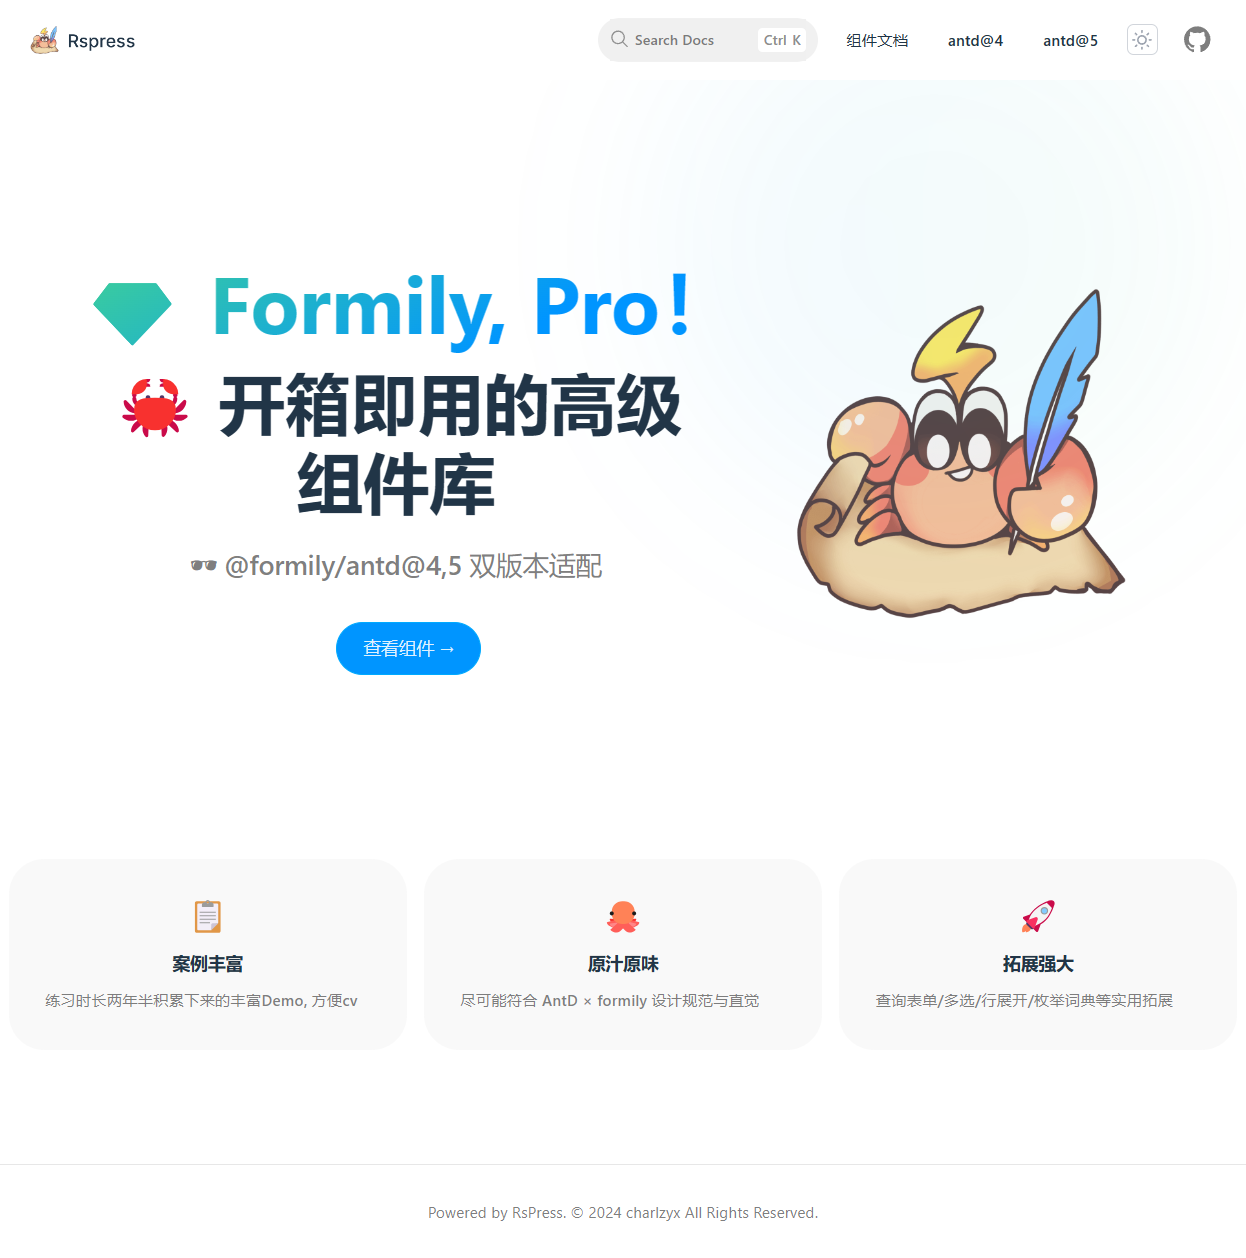
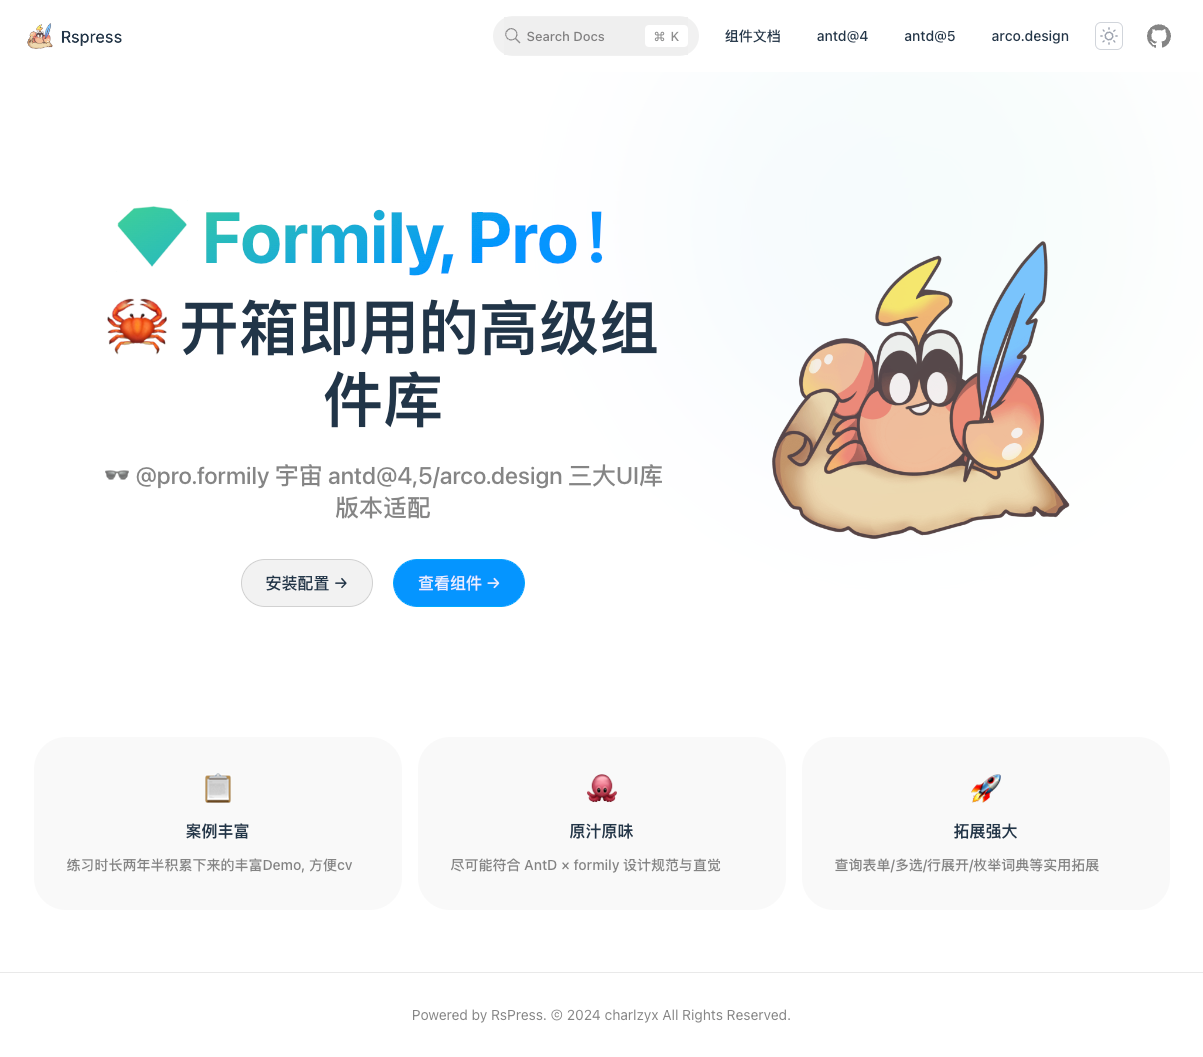
docs: ✏ README 更新, 安装指南

diff --git a/docs/components/index.tsx b/docs/components/index.tsx
@@ -96,14 +96,14 @@ export default () => {
           subtitle: "专业Table",
           cover:
             "https://mdn.alipayobjects.com/huamei_7uahnr/afts/img/A*3yz3QqMlShYAAAAAAAAAAAAADrJ8AQ/original",
-          link: "/array-table-pro",
+          link: "/pro-array-table",
         },
         {
           title: "ProEditable",
           subtitle: "专业对象编辑器",
           cover:
             "https://gw.alipayobjects.com/zos/antfincdn/mStei5BFC/bianzu%2525207.svg",
-          link: "/editable-pro",
+          link: "/pro-editable",
         },
       ],
     },

diff --git a/README.md b/README.md
@@ -2,10 +2,11 @@
 
 |||
 |--|--|
-|@pro.formily/antd| [![version](https://badgen.net/npm/v/@pro.formily/antd)](https://www.npmjs.com/package/@pro.formily/antd) |
-|@pro.formily/antd-v5| [![version](https://badgen.net/npm/v/@pro.formily/antd-v5)](https://www.npmjs.com/package/@pro.formily/antd-v5)|
+|@pro.formily/antd| [![version](https://badgen.net/npm/v/@pro.formily/antd?last)](https://www.npmjs.com/package/@pro.formily/antd) |
+|@pro.formily/antd-v5| [![version](https://badgen.net/npm/v/@pro.formily/antd-v5?last)](https://www.npmjs.com/package/@pro.formily/antd-v5)|
+|@pro.formily/arco| [![version](https://badgen.net/npm/v/@pro.formily/arco?last)](https://www.npmjs.com/package/@pro.formily/arco)|
 
-为 formily 宇宙添加的开箱即用的高级组件库, @formily/antd@4,5 双版本适配
+为 formily 宇宙添加的开箱即用的高级组件库, antd@4,5/arco.design 三大UI库版本适配
 
 - 📋 **案例丰富** 练习时长两年半积累下来的丰富Demo, 方便cv
 - 🐙 **原汁原味** 尽可能符合 AntD × formily 设计规范与直觉
@@ -13,11 +14,27 @@
 
 ![welcome](./docs/public/welcome.png)
 
+
+# 如何安装
+
+> antd@v4
+` bun i @pro.formily/antd @formily/antd @fomrily/core @formily/react antd@4.x @ant-design/icons`
+
+> antd@v5
+` bun i @pro.formily/antd @formily/antd-v5 @fomrily/core @formily/react antd@5.x @ant-design/icons`
+
+> arco.design
+` bun i @pro.formily/arco arco.formily @fomrily/core @formily/react @arco-design/web-react`
+
+## 样式 TODO
+
 ## 在线文档地址
 
 [for/antd@4](https://charlzyx.github.io/pro.formily/antd/)
 
 [for/antd@5](https://charlzyx.github.io/pro.formily/antd-v5/)
+
+[for/arco.design](https://charlzyx.github.io/pro.formily/arco/)
 
 
 ## powered by
@@ -25,7 +42,9 @@
 - [@formily](https://formilyjs.org)
 - [antd@5](https://ant.design/components/table-cn/)
 - [antd@4](https://4x.ant.design/components/table-cn/)
+- [arco.design](https://arco.design/)
 - [@formily/antd](https://github.com/alibaba/formily)
 - [@formily/antd-v5](https://github.com/formilyjs/antd)
 - [Rspress](https://rspress.dev/)
+- [bun!强烈推荐](https://bun.sh/docs)
 
